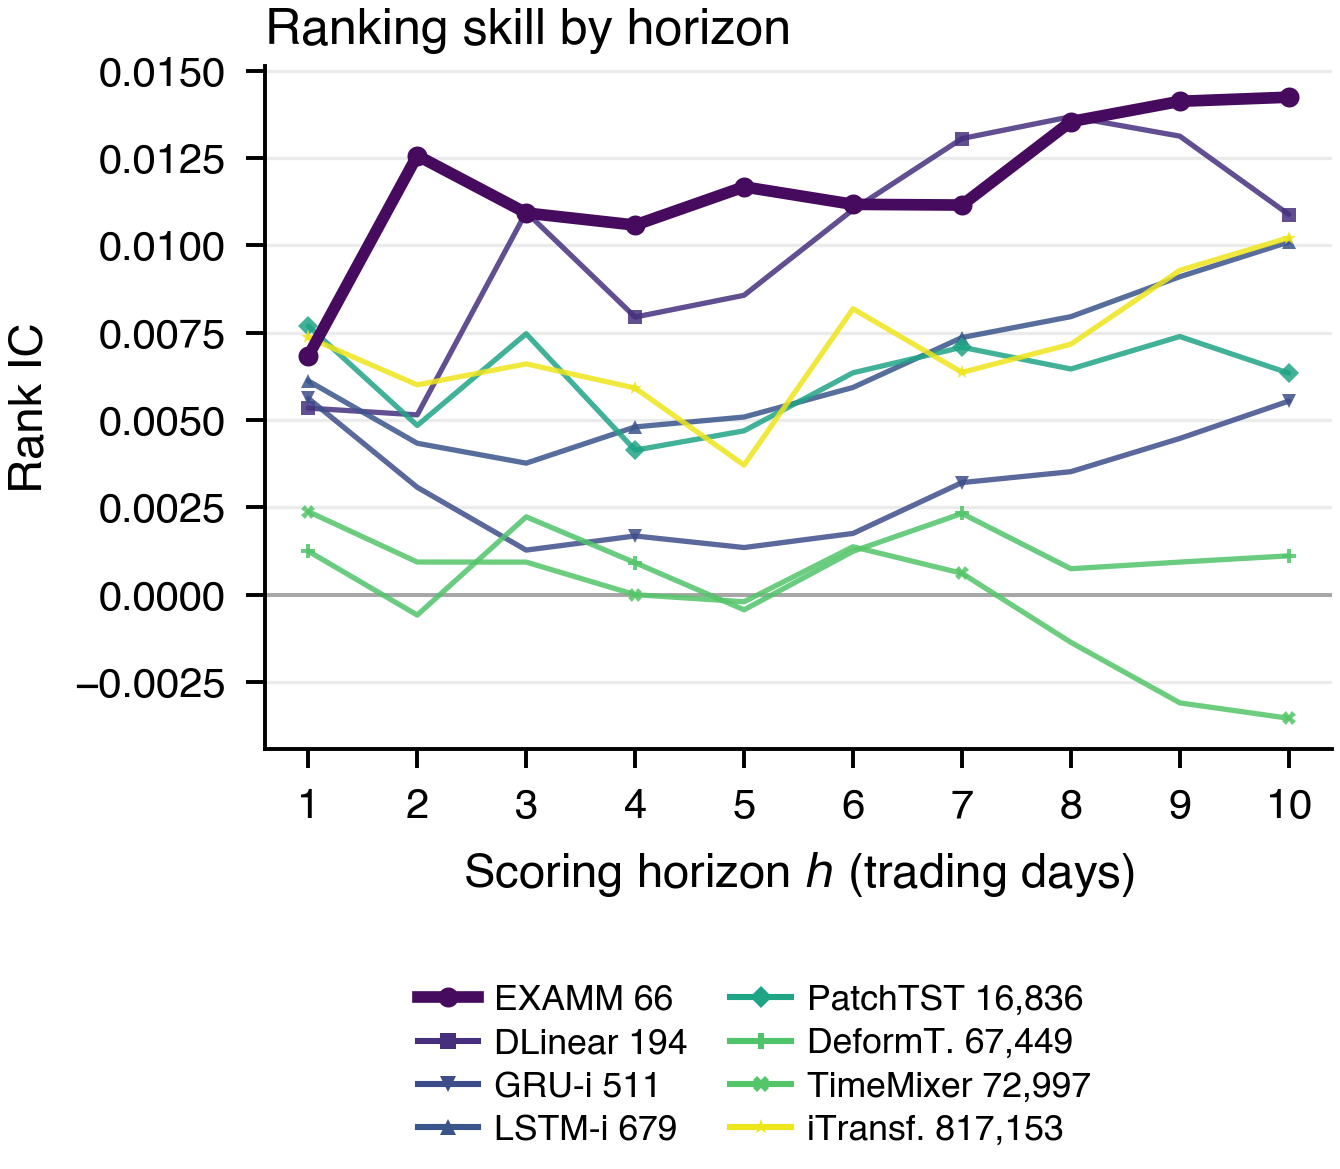
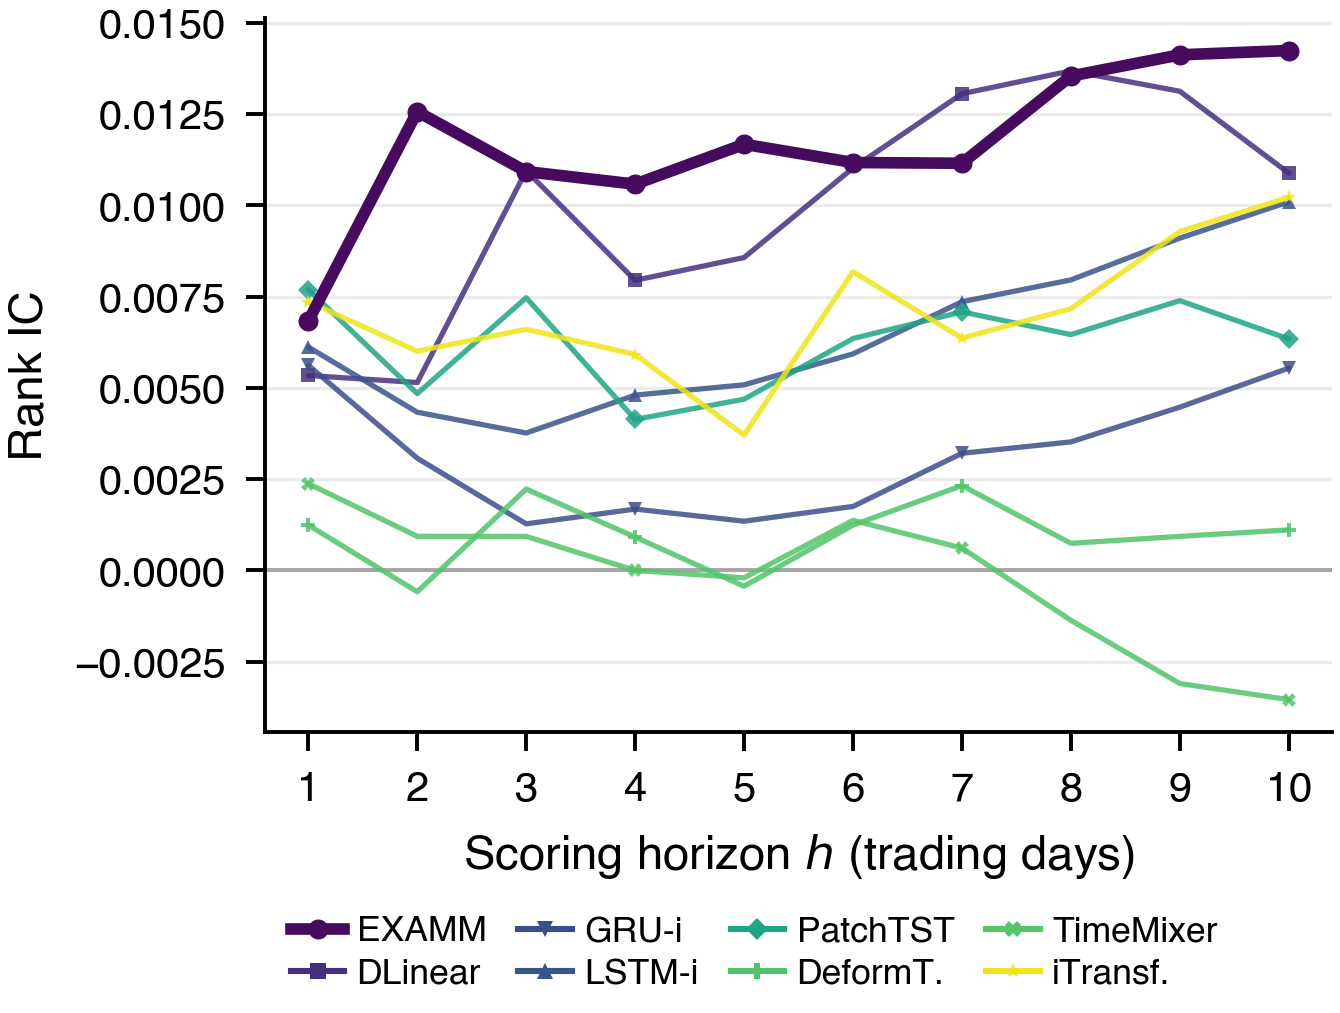
Horizon figure: drop the title and parameter counts, halve the legend rows
Removes the in-figure title (the caption already names the plot, so it was duplicated in
print), strips parameter counts from the legend labels, and reflows the legend from 2
columns x 4 rows to 4 x 2. Height falls 3.05in -> 2.55in.

THE COUNTS LEAVE THE LEGEND BUT NOT THE FIGURE. Line colour still encodes log parameter
count and the caption states that mapping, so the size ordering -- which is the figure's
second finding -- is intact. Repeating the numbers as text cost a full legend row to say
what the colour ramp already says.

Legend order is by parameter count, filled column-major, so reading down each column then
across gives EXAMM (66) through iTransformer (817,153).

diff --git a/scripts/stock_run/plot_horizon.py b/scripts/stock_run/plot_horizon.py
@@ -95,8 +95,8 @@ def main():
     # SINGLE COLUMN. Generating at 3.4in means the 8pt type here is 8pt on the page; generating
     # wide and letting \includegraphics shrink it to \columnwidth would land the labels near 4pt,
     # which is the usual way a good figure becomes unreadable in print.
-    fig, ax = plt.subplots(figsize=(3.4, 3.05))
-    fig.subplots_adjust(bottom=0.34, left=0.20, right=0.985, top=0.90)
+    fig, ax = plt.subplots(figsize=(3.4, 2.55))
+    fig.subplots_adjust(bottom=0.27, left=0.20, right=0.985, top=0.97)
 
     counts = np.array([p for _, p in MODELS], float)
     norm = matplotlib.colors.LogNorm(vmin=counts.min() * 0.75, vmax=counts.max() * 1.3)
@@ -123,7 +123,6 @@ def main():
     ax.set_ylabel("Rank IC")
     ax.set_xlim(0.6, 10.4)
     ax.set_xticks(HS)
-    ax.set_title("Ranking skill by horizon", loc="left", pad=4, fontweight="semibold")
     for side in ("top", "right"):
         ax.spines[side].set_visible(False)
     ax.grid(axis="y", color="0.92", lw=0.6, zorder=0)
@@ -131,11 +130,11 @@ def main():
 
     # Legend ordered by size, which is the figure's organising variable.
     handles = [Line2D([], [], color=col[m], lw=2.1 if m == "EXAMM" else 1.1, marker=mk[m],
-                      ms=3.6 if m == "EXAMM" else 2.8, mew=0, label=f"{m} {p:,}")
+                      ms=3.6 if m == "EXAMM" else 2.8, mew=0, label=m)
                for m, p in MODELS]
-    fig.legend(handles=handles, loc="lower center", bbox_to_anchor=(0.56, -0.012),
-               frameon=False, ncol=2, handlelength=1.7, columnspacing=1.2,
-               labelspacing=0.32, handletextpad=0.45, fontsize=6.4)
+    fig.legend(handles=handles, loc="lower center", bbox_to_anchor=(0.56, -0.015),
+               frameon=False, ncol=4, handlelength=1.5, columnspacing=0.9,
+               labelspacing=0.3, handletextpad=0.35, fontsize=6.4)
 
     # Reported on stdout, not plotted: the capacity correlation the colouring encodes.
     ratio = np.array([means[m][4] / means[m][0] for m, _ in MODELS])
